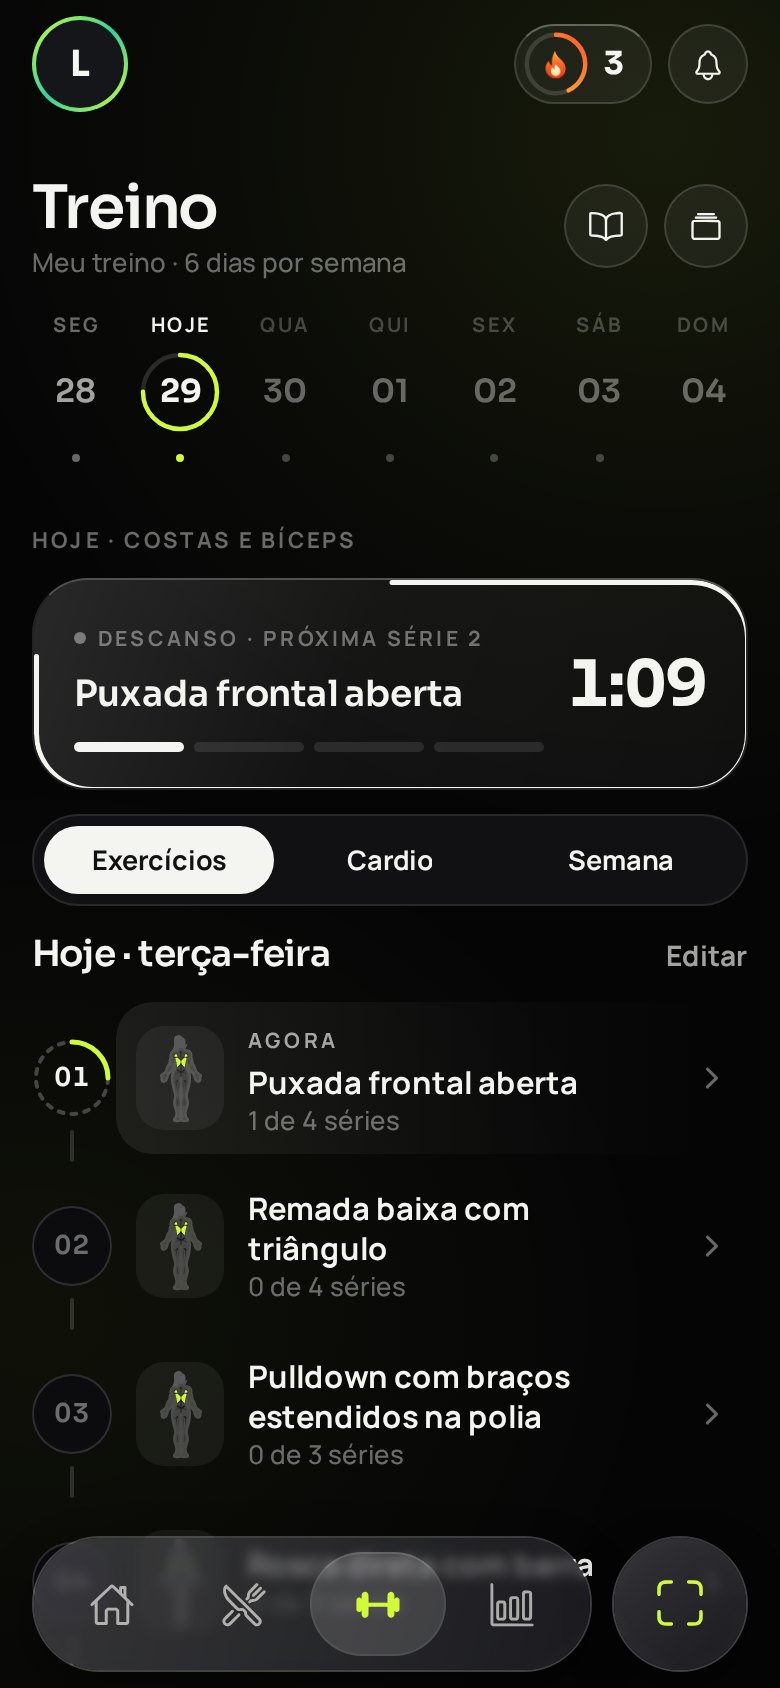
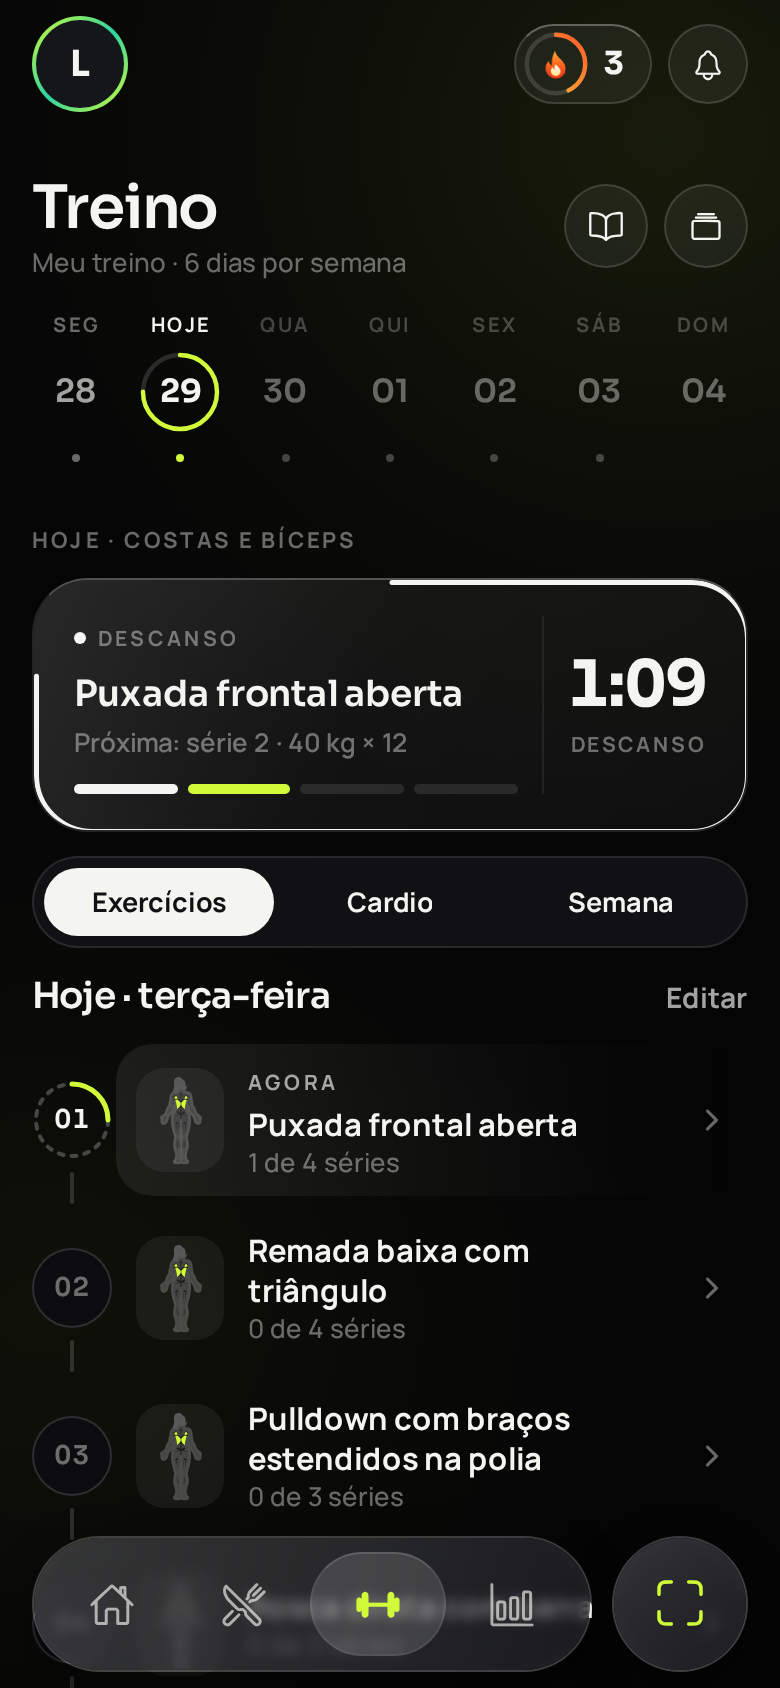
Treino: card em andamento no layout da opção D nos dois momentos (treino e descanso)
Claude-Session: https://claude.ai/code/session_012t93SzLcEenD5Rt5kwwiQ7

diff --git a/src/components/workout/HeroDoDia.tsx b/src/components/workout/HeroDoDia.tsx
@@ -5,11 +5,12 @@ import Svg, { Path } from 'react-native-svg';
 
 import { Glass, NeonButton, Text } from '@/components/ui';
 import { exercicioPorId, MUSCULO_LABELS } from '@/lib/exercicios';
-import { formatDuration } from '@/lib/format';
+import { formatDecimal, formatDuration } from '@/lib/format';
 import { tempoDeTreinoMs } from '@/lib/treino/met';
 import { proximoExercicio, seriesFeitas } from '@/lib/treino/plano';
+import { valoresDaProximaSerie } from '@/lib/treino/progressao';
 import { colors, fonts, radius, spacing } from '@/theme/theme';
-import type { Musculo, SessaoEmAndamento, TreinoDoDia } from '@/types/treino';
+import type { Musculo, PlanoDeTreino, SessaoDeTreino, SessaoEmAndamento, TreinoDoDia } from '@/types/treino';
 
 import { MapaMuscular } from './MapaMuscular';
 
@@ -176,7 +177,20 @@ const TRACO = 2.5;
  * descanso, o tempo vira o descanso e a linha (branca) conta o descanso.
  * Tocar abre o treino ao vivo no exercício atual.
  */
-export function CardAoVivo({ treino, sessao, onAbrir }: { treino: TreinoDoDia; sessao: SessaoEmAndamento; onAbrir: () => void }) {
+export function CardAoVivo({
+  treino,
+  sessao,
+  historico,
+  planos,
+  onAbrir,
+}: {
+  treino: TreinoDoDia;
+  sessao: SessaoEmAndamento;
+  /** Treinos anteriores e planos: para a carga e as repetições da próxima série. */
+  historico: readonly SessaoDeTreino[];
+  planos: readonly PlanoDeTreino[];
+  onAbrir: () => void;
+}) {
   const agora = useAgora();
   const [tam, setTam] = useState({ w: 0, h: 0 });
   const pausado = !!sessao.pausadoEm;
@@ -190,7 +204,10 @@ export function CardAoVivo({ treino, sessao, onAbrir }: { treino: TreinoDoDia; s
   const descansando = restante > 0 && !!atual;
   const volta = descansando ? restante / Math.max(1, sessao.descansoSeg ?? restante) : (seg % 60) / 60;
   const { d, perimetro } = contorno(tam.w, tam.h, RAIO, TRACO / 2);
-  const rotulo = acabou ? 'Tudo feito' : pausado ? 'Pausado' : descansando ? `Descanso · próxima série ${feitas + 1}` : `Agora · série ${feitas + 1} de ${atual?.series}`;
+  const rotulo = acabou ? 'Tudo feito' : pausado ? 'Pausado' : descansando ? 'Descanso' : 'Agora';
+  const prox = atual ? valoresDaProximaSerie(atual, sessao, historico, planos) : null;
+  const carga = prox ? `${formatDecimal(prox.kg)} kg × ${prox.reps}` : '';
+  const detalhe = !atual ? '' : descansando ? `Próxima: série ${feitas + 1} · ${carga}` : `Série ${feitas + 1} de ${atual.series} · ${carga}`;
 
   return (
     <Pressable
@@ -214,7 +231,7 @@ export function CardAoVivo({ treino, sessao, onAbrir }: { treino: TreinoDoDia; s
           )}
           <View style={styles.flex}>
             <View style={styles.aoVivo}>
-              <View style={[styles.ponto, (pausado || descansando || acabou) && styles.pontoOff]} />
+              <View style={[styles.ponto, descansando && styles.pontoDescanso, (pausado || acabou) && styles.pontoOff]} />
               <Text style={styles.rotulo} numberOfLines={1}>
                 {rotulo}
               </Text>
@@ -222,15 +239,24 @@ export function CardAoVivo({ treino, sessao, onAbrir }: { treino: TreinoDoDia; s
             <Text style={styles.cartaoNome} numberOfLines={2}>
               {atual ? (ex?.nome ?? 'Exercício') : 'Toque para finalizar o treino'}
             </Text>
+            {detalhe ? (
+              <Text variant="caption" tone="muted" numberOfLines={1} style={styles.detalhe}>
+                {detalhe}
+              </Text>
+            ) : null}
             {atual ? (
               <View style={styles.tracos} accessibilityLabel={`${feitas} de ${atual.series} séries feitas`}>
                 {Array.from({ length: atual.series }, (_, k) => (
-                  <View key={k} style={[styles.traco, k < feitas && styles.tracoFeito, k === feitas && !descansando && styles.tracoAtual]} />
+                  <View key={k} style={[styles.traco, k < feitas && styles.tracoFeito, k === feitas && styles.tracoAtual]} />
                 ))}
               </View>
             ) : null}
           </View>
-          <Text style={[styles.tempo, pausado && styles.tempoPausado]}>{formatDuration(descansando ? restante : seg)}</Text>
+          <View style={styles.divisor} />
+          <View style={styles.tempoCol}>
+            <Text style={[styles.tempo, pausado && styles.tempoPausado]}>{formatDuration(descansando ? restante : seg)}</Text>
+            {descansando ? <Text style={styles.tempoRotulo}>DESCANSO</Text> : null}
+          </View>
         </Glass>
       )}
     </Pressable>
@@ -350,6 +376,9 @@ const styles = StyleSheet.create({
     borderRadius: 3,
     backgroundColor: colors.lime,
   },
+  pontoDescanso: {
+    backgroundColor: colors.ink,
+  },
   pontoOff: {
     backgroundColor: colors.ink3,
   },
@@ -391,6 +420,24 @@ const styles = StyleSheet.create({
     lineHeight: 38,
     letterSpacing: -1.4,
     fontVariant: ['tabular-nums'],
+  },
+  detalhe: {
+    marginTop: 3,
+    fontFamily: fonts.body.semibold,
+  },
+  divisor: {
+    width: 1,
+    alignSelf: 'stretch',
+    backgroundColor: colors.lineSoft,
+  },
+  tempoCol: {
+    alignItems: 'flex-end',
+  },
+  tempoRotulo: {
+    fontFamily: fonts.body.bold,
+    fontSize: 10.5,
+    letterSpacing: 1.2,
+    color: colors.ink3,
   },
   tempoPausado: {
     color: colors.ink3,

diff --git a/src/app/(tabs)/treino.tsx b/src/app/(tabs)/treino.tsx
@@ -7,7 +7,7 @@ import { TabPage } from '@/components/navigation/TabPage';
 import { SheetBadge } from '@/components/nutrition/PlateSheet';
 import { confirmDestructive, EmptyState, Glass, GlassModal, IconButton, NeonButton, Text, toast } from '@/components/ui';
 import { SegmentedTabs } from '@/components/ui/SegmentedTabs';
-import { HeroDescanso, HeroTreino, CardAoVivo } from '@/components/workout/HeroDoDia';
+import { CardAoVivo, HeroDescanso, HeroTreino } from '@/components/workout/HeroDoDia';
 import { ExerciseLibrary } from '@/components/workout/ExerciseLibrary';
 import { ListaExerciciosDoDia } from '@/components/workout/ListaExerciciosDoDia';
 import { RelatorioSemana } from '@/components/workout/RelatorioSemana';
@@ -210,11 +210,11 @@ export default function TreinoScreen() {
           <Text style={styles.aoVivoTopo}>
             {sessaoAtiva.data === today ? 'Hoje' : `Treino de ${diaCompleto(sessaoAtiva.diaPlanejado)}`} · {treinoAtivo.nome}
           </Text>
-          <CardAoVivo treino={treinoAtivo} sessao={sessaoAtiva} onAbrir={() => abrirSessao()} />
+          <CardAoVivo treino={treinoAtivo} sessao={sessaoAtiva} historico={sessoes} planos={planos} onAbrir={() => abrirSessao()} />
         </View>
       ) : (
         <>
-          {sessaoAtiva && treinoAtivo && <CardAoVivo treino={treinoAtivo} sessao={sessaoAtiva} onAbrir={() => abrirSessao()} />}
+          {sessaoAtiva && treinoAtivo && <CardAoVivo treino={treinoAtivo} sessao={sessaoAtiva} historico={sessoes} planos={planos} onAbrir={() => abrirSessao()} />}
           {!t ? (
             <HeroDescanso kicker={kicker} proximo={upcoming[0] && `${dayLabel(upcoming[0].data, today).toLowerCase()} · ${upcoming[0].treino.nome}`} />
           ) : (
